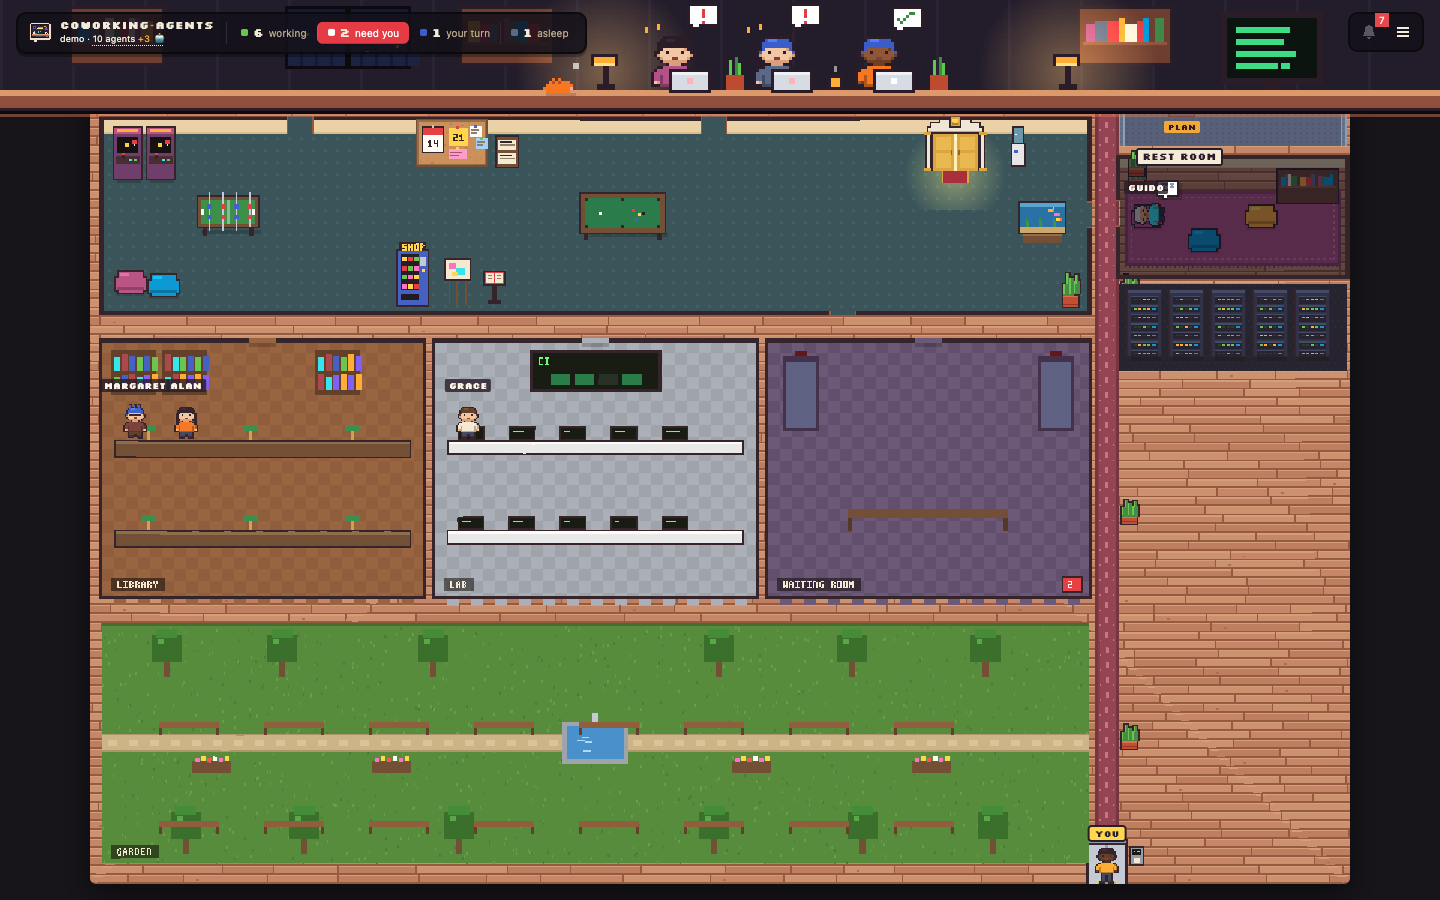
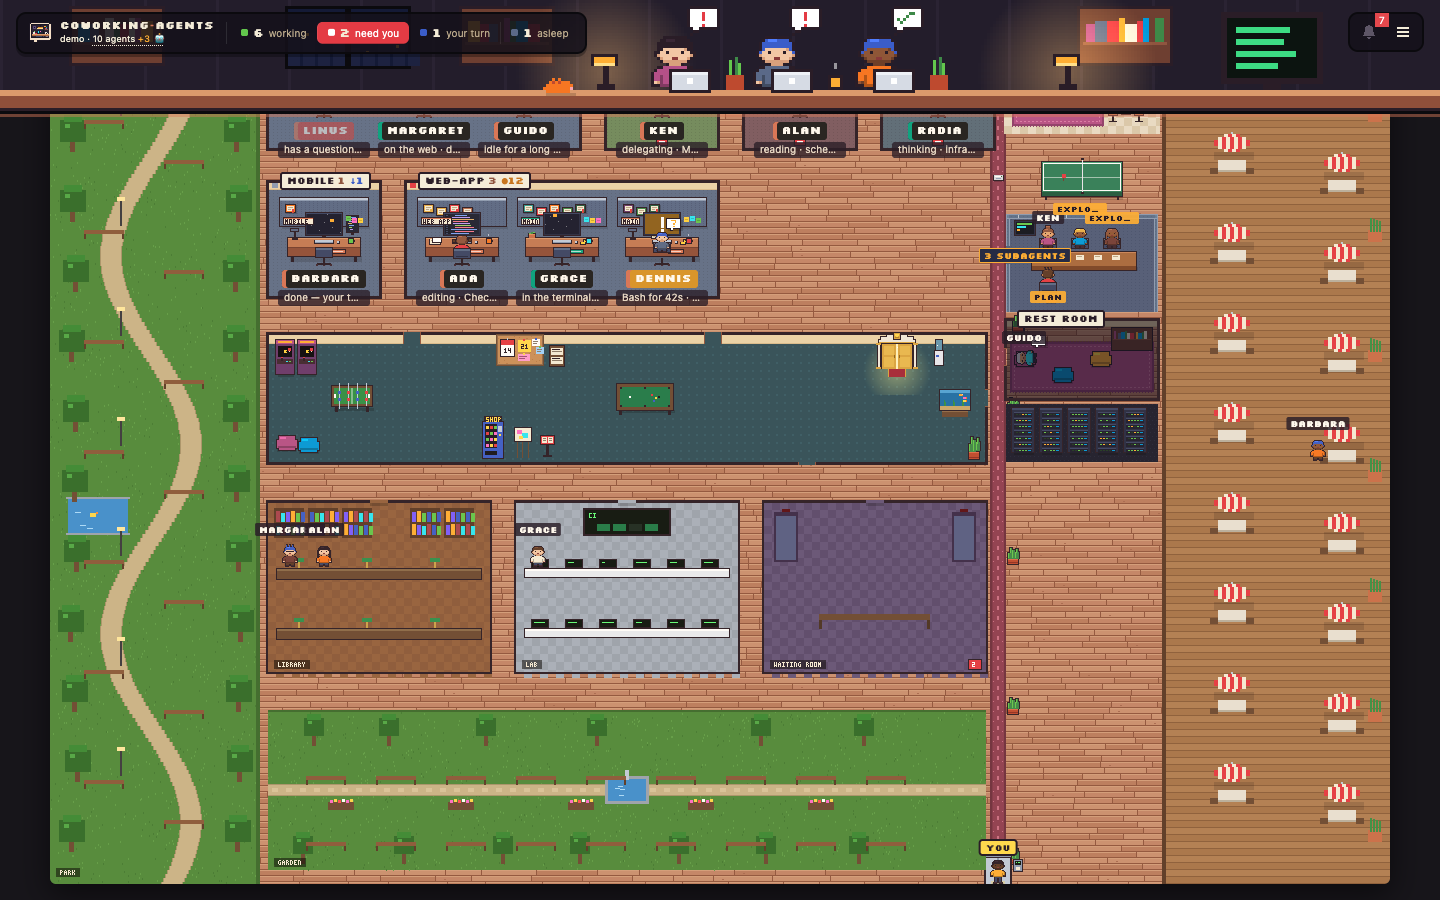
The wide floor with the park and the café in both modes; Normal shows it all without a character; small zoom buttons on the left edge

diff --git a/public/js/gather.js b/public/js/gather.js
@@ -2,9 +2,9 @@
 // ---------------- Gather mode: a closer camera that follows you, and a card when you walk up to someone ----------------
 // On by default while you walk around (☰ → Settings → Camera follows you). The office is drawn bigger and the view
 // slides with you; next to an agent a card shows what it is doing and what you asked last, with its buttons.
-let gatherOn = qs.get('gather') === '0' ? false : store.get('gather', true) !== false; // ?gather=0 for the README screenshots (the whole office)
+let gatherOn = qs.get('gather') === '0' ? false : store.get('gather', true) !== false && store.get('player', true) !== false; // ?gather=0 for the README screenshots (the whole office)
 // zoom: − and + in the bar at the bottom (or the - and = keys, or pinch / ctrl + wheel); "fit" shows the whole office
-const ZOOMS = ['fit', 0.75, 1, 1.5, 2, 2.5, 3];
+const ZOOMS = ['fit', 1, 1.5, 2, 2.5, 3, 4];
 let zoomI = ZOOMS.indexOf(store.get('zoom', 2)); if (zoomI < 0) zoomI = 4;
 const gatherActive = () => gatherOn && playerOn && !trophyView && !building && !!data;
 // how much bigger than the normal scale: "fit" makes the whole floor fit the window
@@ -66,7 +66,7 @@ function gatherFollow() {
     const st = document.getElementById('stage'), want = on ? Math.max(240, Math.round(innerHeight - (st.getBoundingClientRect().top + scrollY) - 8)) + 'px' : '';
     if (st.style.height !== want) st.style.height = want;
   }
-  if (!on) { if (camX !== null) { camX = camY = null; camManual = false; if (!officeEl.classList.contains('cam')) officeEl.style.transform = ''; } nearCardHide(); return; }
+  if (!on) { camX = camY = null; camManual = false; if (!officeEl.classList.contains('cam') && officeEl.style.transform) officeEl.style.transform = ''; nearCardHide(); return; }
   if (officeEl.classList.contains('cam')) return; // an agent's panel has the camera
   if (me.moving && camManual) { camManual = false; zoomBar(); } // walking brings the camera back to you
   if (camManual) { clampCam(); nearCard(); return; }
@@ -77,7 +77,7 @@ function gatherFollow() {
   officeEl.style.transform = `translate(${-Math.round(camX)}px, ${-Math.round(camY)}px)`;
   nearCard();
 }
-function setGather(on) { gatherOn = on; store.set('gather', on); camX = camY = null; camManual = false; lastLayoutKey = ''; renderAll(); labelGather(); zoomBar(); }
+function setGather(on) { gatherOn = on; store.set('gather', on); camX = camY = null; camManual = false; if (playerOn !== on && typeof setPlayer === 'function') setPlayer(on); lastLayoutKey = ''; gatherFollow(); renderAll(); labelGather(); zoomBar(); } // Gather: you walk and the camera follows; Normal: the whole map, no character
 // the switch, in the menu's Settings, with the same green dot as the others
 const gatherBtn = document.createElement('button');
 gatherBtn.id = 'btn-gather'; gatherBtn.className = 'icon-btn';
@@ -117,3 +117,13 @@ nearEl.addEventListener('click', e => {
   if (b.dataset.near === 'talk') { deskSub = 'talk'; showPerson(p.id); return; }
   if ((p.state === 'needs_you' || p.state === 'waiting') && typeof openTalk === 'function') openTalk(p.id); else showPerson(p.id);
 });
+
+// small zoom buttons on the left edge of the screen while in Gather mode (the same as the menu row)
+const zoomPad = document.createElement('div'); zoomPad.className = 'zoom-pad'; zoomPad.hidden = true; document.body.appendChild(zoomPad);
+function zoomPadDraw() {
+  const on = gatherActive(), G = T.gather; zoomPad.hidden = !on; if (!on) return;
+  const html = `<button data-zp="1" title="${esc(G.in)}" ${zoomI === ZOOMS.length - 1 ? 'disabled' : ''}>+</button><button data-zp="-1" title="${esc(G.out)}" ${zoomI === 0 ? 'disabled' : ''}>−</button>${camManual ? `<button data-zp="me" title="${esc(G.backToMe)}">◎</button>` : ''}`;
+  if (zoomPad.innerHTML !== html) zoomPad.innerHTML = html;
+}
+zoomPad.addEventListener('click', e => { const b = e.target.closest('[data-zp]'); if (!b) return; if (b.dataset.zp === 'me') { camManual = false; zoomBar(); } else setZoom(Number(b.dataset.zp)); zoomPadDraw(); });
+setInterval(zoomPadDraw, 400);

diff --git a/public/js/floorplan.js b/public/js/floorplan.js
@@ -74,10 +74,9 @@ function relayout() {
   // with several rooms, shrink the scale so two fit side by side; with just one, keep it big
   const groups = new Set((data ? data.people : []).map(roomKey)).size;
   const s0 = Math.max(1.6, Math.min(3, availW / (groups > 1 ? 840 : 520)));
-  // Gather mode: a wider, roomier floor with open areas on both sides (a park on the left, a café on the right)
-  const g = typeof gatherActive === 'function' && gatherActive();
-  SIDE_L = g ? 210 : 0; SIDE_R = g ? 230 : 0; ROWGAP = g ? 34 : SHELF_GAP; COLGAP = g ? 26 : 8;
-  W = Math.max(g ? 900 : 480, Math.min(g ? 1100 : 920, Math.floor(availW / s0))) + SIDE_L + SIDE_R;
+  // a wide, roomy floor with open areas on both sides (a park on the left, a café on the right), in both modes
+  SIDE_L = 210; SIDE_R = 230; ROWGAP = 34; COLGAP = 26;
+  W = Math.max(900, Math.min(1100, Math.floor(availW / s0))) + SIDE_L + SIDE_R;
   CX = W - RW - 14 - SIDE_R; RX = CX + 10;
   const leftW = CX - 12 - SIDE_L;
   floors = planFloors(data ? data.people : [], leftW);
@@ -157,7 +156,7 @@ function fitScale() {
   const availW = Math.min((stage.clientWidth || document.documentElement.clientWidth - 32) - 4, 2400); // hidden (building view) measures 0
   // the trophy room is its own screen with a fixed size
   const w = trophyView ? TROPHY_W : W, h = trophyView ? TROPHY_H : H;
-  S = Math.max(1.5, Math.floor(Math.min(availW / w, 4) * 4) / 4);
+  S = Math.max(.5, Math.floor(Math.min(availW / w, 4) * 4) / 4); // the whole floor across the window (it is wide: the park and the café on its sides)
   if (typeof gatherZoom === 'function') S = Math.min(6, S * gatherZoom(w, h, S)); // Gather mode: drawn bigger, the camera follows you
   cv.width = w; cv.height = h;
   cv.style.width = w * S + 'px'; cv.style.height = h * S + 'px';

diff --git a/public/style.css b/public/style.css
@@ -1031,3 +1031,11 @@ body.gather #office:not(.cam) { transition: none; }
 .tools-menu .menu-zoom button:disabled { opacity: .35; cursor: default; }
 .tools-menu .menu-zoom .mz-z { min-width: 38px; text-align: center; font: 700 10px/1 var(--pix); color: #f4ecd8; }
 body.gather main#stage { cursor: grab; } body.gather main#stage:active { cursor: grabbing; }
+/* the small zoom buttons on the left edge in Gather mode */
+.zoom-pad { position: fixed; left: 10px; top: 50%; transform: translateY(-50%); z-index: 30; display: flex; flex-direction: column; gap: 4px; }
+.zoom-pad[hidden] { display: none; }
+.zoom-pad button { width: 30px; height: 30px; border: 2px solid var(--edge); border-radius: 6px; background: #1b1622; color: #f4ecd8; font: 700 16px/1 system-ui, sans-serif; box-shadow: 2px 2px 0 var(--edge); cursor: pointer; }
+.zoom-pad button:hover:not(:disabled) { background: #2a2433; }
+.zoom-pad button:disabled { opacity: .35; cursor: default; }
+/* walking is part of Gather mode now (the switch is "Gather mode" in the menu) */
+#tools-menu #btn-walk { display: none; }

diff --git a/public/js/player.js b/public/js/player.js
@@ -59,7 +59,7 @@ function planWalk(to) {
 }
 
 function updatePlayer(dt) {
-  if (!playerOn || !data || trophyView) { placePlayerTag(); return; }
+  if (!playerOn || !data || trophyView) { placePlayerTag(); if (typeof gatherFollow === 'function') gatherFollow(); return; } // leaving Gather resets the camera
   if (!me.ready || me.y > H) { Object.assign(me, { x: CX - 8, y: H - 24, ready: true }); }
   let dx = 0, dy = 0;
   const k = c => keysDown.has(c);

diff --git a/README.md b/README.md
@@ -258,7 +258,7 @@ It is a separate server that only answers on your LAN address, with its own toke
 ## Walk around (Gather-style)
 
 
-☰ → Settings → **Gather mode** (on by default) makes the floor wider and roomier, with a park on the left and a café on the right, and the camera follows you. The **Zoom** row under it goes from *all* (the whole floor) to 3× (or the - and = keys, or a pinch); drag the floor or scroll to look around, and walking or ◎ brings the camera back to you. With Gather mode off it is the whole office across the page, as before. Walk up to an agent and a card opens over it with what it is doing or asking and what you asked last, with buttons to open it, answer or read the conversation. At the bottom of the floor there is a garden where agents whose turn ended take a stroll.
+The floor is wide and roomy, with a park on the left and a café on the right. ☰ → Settings → **Gather mode** (on by default): your character walks and the camera follows; zoom with the small − + on the left edge (or the - and = keys, or a pinch) from *all* (the whole floor) to 4×, drag the floor or scroll to look around, and walking or ◎ brings the camera back to you. With Gather mode off you see the whole floor across the window, without a character. Walk up to an agent and a card opens over it with what it is doing or asking and what you asked last, with buttons to open it, answer or read the conversation. At the bottom of the floor there is a garden where agents whose turn ended take a stroll.
 You're in the office too, with a **YOU** tag. **WASD** or the arrow keys walk (hold **Shift** to run), a click on the floor walks you there through the doors, and walls stop you. Near an agent, a prop or a door, **Enter** talks, opens or enters. Turn it off in the ☰ menu.
 
 ## The game room and the trophy room

diff --git a/CHANGELOG.md b/CHANGELOG.md
@@ -1,8 +1,8 @@
 # Changelog
 
 ## Unreleased
-- ☰ → Settings → *Gather mode* (on) or the normal office; the zoom row under it goes from *all* (the whole floor fits the window) to 3× (also the - and = keys, or pinch / ctrl + wheel). Drag the floor or scroll to look around; walking (or ◎) brings the camera back to you
-- Gather mode's floor is wider and roomier: more space between rooms, a park along the left (a winding path, a pond with a duck, trees, benches, lamps) and a café terrace along the right (the counter, round umbrella tables); agents on a stroll sit there too
+- Two modes in ☰ → Settings → *Gather mode*: Gather (your character walks and the camera follows; zoom with the small − + on the left edge, the zoom row in the menu, the - and = keys or a pinch, from *all* to 4×; drag or scroll to look around, walking or ◎ brings the camera back) and Normal (the whole floor across the window, no character)
+- A wider, roomier floor in both modes: more space between rooms, a park along the left (a winding path, a pond with a duck, trees, benches, lamps) and a café terrace along the right (the counter, round umbrella tables); agents on a stroll sit there too
 - Walking: you collide by your feet (the bottom of your character, about 10 px wide), so walls stop you where they are drawn and you no longer get stuck on an invisible edge in the middle of the floor; the glass meeting room, the rest room and the server corner are walls too, entered by their doors
 - Gather mode (on by default while you walk; ☰ → Settings → Camera follows you): the office drawn twice as big and the view slides with you
 - Walk up to an agent and a card opens over it: what it is doing or asking, its title and what you asked last, with Open/Answer and Conversation
